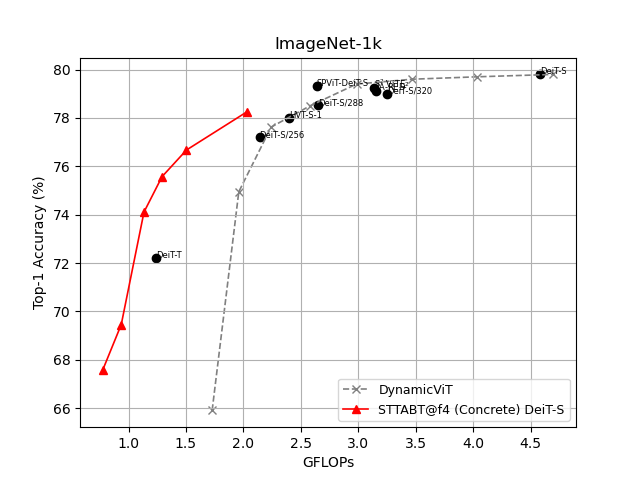
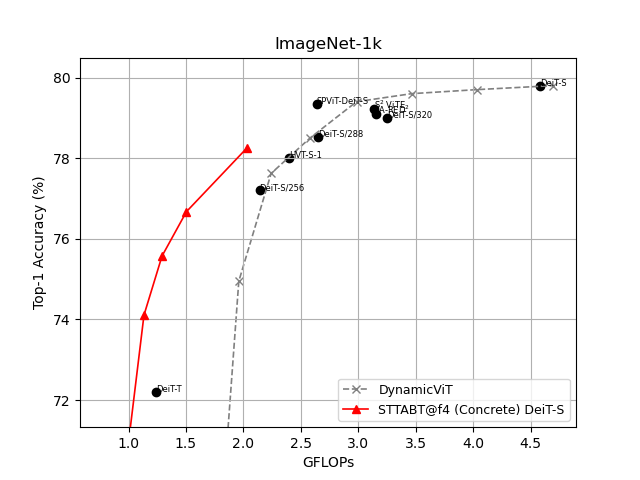
update vit plot

diff --git a/main/plot/vit_concrete_flops.py b/main/plot/vit_concrete_flops.py
@@ -159,11 +159,16 @@ def main():
     for i, txt in enumerate(labels_other):
         ax.annotate(txt, (xs_other[i], ys_other[i]), fontsize=6)
     
-    plt.grid()
     plt.legend(prop={'size': 9})
     plt.title(f'{STR_IMAGENET_1K}', fontsize=12)
     plt.xlabel('GFLOPs')
     plt.ylabel(STR_TOP1_ACCURACY)
+
+    y_bot, y_top = plt.ylim()
+    y_bot = y_top - (y_top-y_bot) * 0.6
+    plt.ylim(y_bot, y_top)
+    
+    plt.grid(which='both', axis='both')
 
     filename = './saves_plot/vit-flops'
     plt.savefig(filename+'.png')
